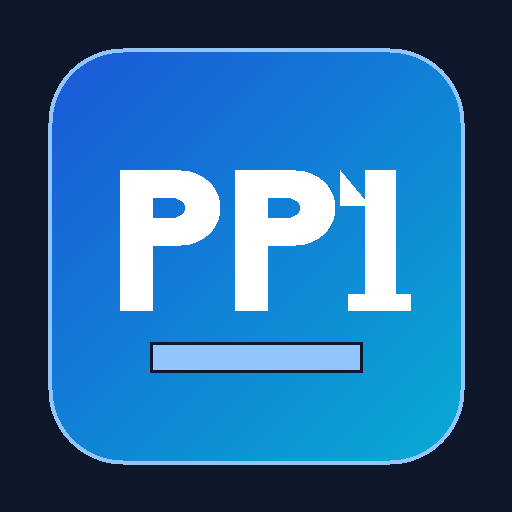
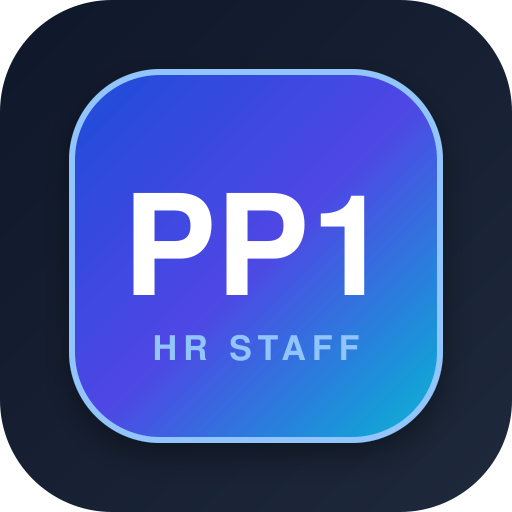
refactor: rename application to "HR STAFF - PRODUKSI I"
Update application branding and metadata across the UI, manifest, and meta tags to clarify the focus on the Production I division. Added `sharp` dependency for future icon generation tasks.

diff --git a/index.html b/index.html
@@ -3,19 +3,19 @@
   <head>
     <meta charset="UTF-8" />
     <meta name="viewport" content="width=device-width, initial-scale=1.0, maximum-scale=5.0, user-scalable=yes" />
-    <title>Sistem HR Staff & Karyawan — PT Batu Karang</title>
-    <meta name="description" content="Sistem manajemen kepegawaian modern untuk Staf Kantor, Karyawan Tetap, dan Kontrak Bulanan PT Batu Karang." />
+    <title>HR STAFF - PRODUKSI I</title>
+    <meta name="description" content="Sistem HR Staff & Karyawan Divisi Produksi I (PP1) — PT Batu Karang." />
     <meta name="theme-color" content="#0f172a" />
     <meta name="mobile-web-app-capable" content="yes" />
     <meta name="apple-mobile-web-app-capable" content="yes" />
     <meta name="apple-mobile-web-app-status-bar-style" content="black-translucent" />
-    <meta name="apple-mobile-web-app-title" content="HR Pekerja" />
+    <meta name="apple-mobile-web-app-title" content="HR STAFF I" />
     <link rel="apple-touch-icon" href="/apple-touch-icon.png" />
     <link rel="icon" type="image/svg+xml" href="/icon.svg" />
     <link rel="icon" type="image/png" sizes="192x192" href="/pwa-192x192.png" />
     <link rel="manifest" href="/manifest.json" />
-    <meta property="og:title" content="Sistem HR Staff & Karyawan — PT Batu Karang" />
-    <meta property="og:description" content="Sistem manajemen kepegawaian modern untuk Staf Kantor, Karyawan Tetap, dan Kontrak Bulanan PT Batu Karang." />
+    <meta property="og:title" content="HR STAFF - PRODUKSI I" />
+    <meta property="og:description" content="Sistem HR Staff & Karyawan Divisi Produksi I (PP1) — PT Batu Karang." />
     <meta property="og:type" content="website" />
     <meta name="twitter:card" content="summary_large_image" />
   </head>

diff --git a/src/components/Navbar.tsx b/src/components/Navbar.tsx
@@ -145,7 +145,7 @@ export const Navbar: React.FC<NavbarProps> = ({
         <div className="leading-tight truncate min-w-0">
           <div className="flex items-center gap-2">
             <h1 className="font-extrabold text-sm sm:text-base tracking-wide text-slate-900 dark:text-white truncate">
-              PT BATU KARANG
+              HR STAFF - PRODUKSI I
             </h1>
             <span className="hidden sm:inline-flex items-center gap-1 px-2 py-0.5 rounded-full text-[10px] font-bold bg-emerald-100 text-emerald-700 dark:bg-emerald-950/60 dark:text-emerald-300 border border-emerald-500/20 shrink-0">
               <span className="w-1.5 h-1.5 rounded-full bg-emerald-500 animate-pulse"></span>
@@ -153,7 +153,7 @@ export const Navbar: React.FC<NavbarProps> = ({
             </span>
           </div>
           <p className="text-[11px] text-slate-500 dark:text-slate-400 truncate">
-            HR Staff &amp; Karyawan — Divisi Produksi I (PP1)
+            PT Batu Karang — Divisi Produksi I (PP1)
           </p>
         </div>
       </div>

diff --git a/src/components/PWAInstallButton.tsx b/src/components/PWAInstallButton.tsx
@@ -57,7 +57,7 @@ export const PWAInstallButton: React.FC<PWAInstallButtonProps> = ({ variant = 'n
             </div>
             <div className="text-left min-w-0">
               <div className="text-xs font-bold leading-tight flex items-center gap-1.5 truncate">
-                <span>Pasang Aplikasi HR PP1</span>
+                <span>Pasang HR STAFF - PRODUKSI I</span>
                 <span className="px-1.5 py-0.2 rounded-full text-[9px] font-black bg-cyan-400 text-blue-950">
                   1-Klik
                 </span>
@@ -131,7 +131,7 @@ export const PWAInstallButton: React.FC<PWAInstallButtonProps> = ({ variant = 'n
                 </div>
                 <div>
                   <h3 className="text-sm font-bold text-slate-900 dark:text-white leading-tight">
-                    Pasang Aplikasi HR PP1
+                    Pasang HR STAFF - PRODUKSI I
                   </h3>
                   <p className="text-[10px] text-slate-500 dark:text-slate-400">
                     PT Batu Karang — Divisi Produksi I

diff --git a/vite.config.ts b/vite.config.ts
@@ -14,10 +14,10 @@ export default defineConfig(() => {
         includeAssets: ['favicon.ico', 'apple-touch-icon.png', 'icon.svg'],
         manifest: {
           id: '/',
-          name: 'Sistem HR Staff & Karyawan — PT Batu Karang',
-          short_name: 'HR Pekerja',
+          name: 'HR STAFF - PRODUKSI I',
+          short_name: 'HR STAFF I',
           description:
-            'Sistem manajemen kepegawaian modern untuk Staf Kantor, Karyawan Tetap, dan Kontrak Bulanan PT Batu Karang.',
+            'Sistem manajemen kepegawaian modern untuk Staf Kantor, Karyawan Tetap, dan Kontrak Bulanan PT Batu Karang Divisi Produksi I.',
           theme_color: '#0f172a',
           background_color: '#0f172a',
           display: 'standalone',
